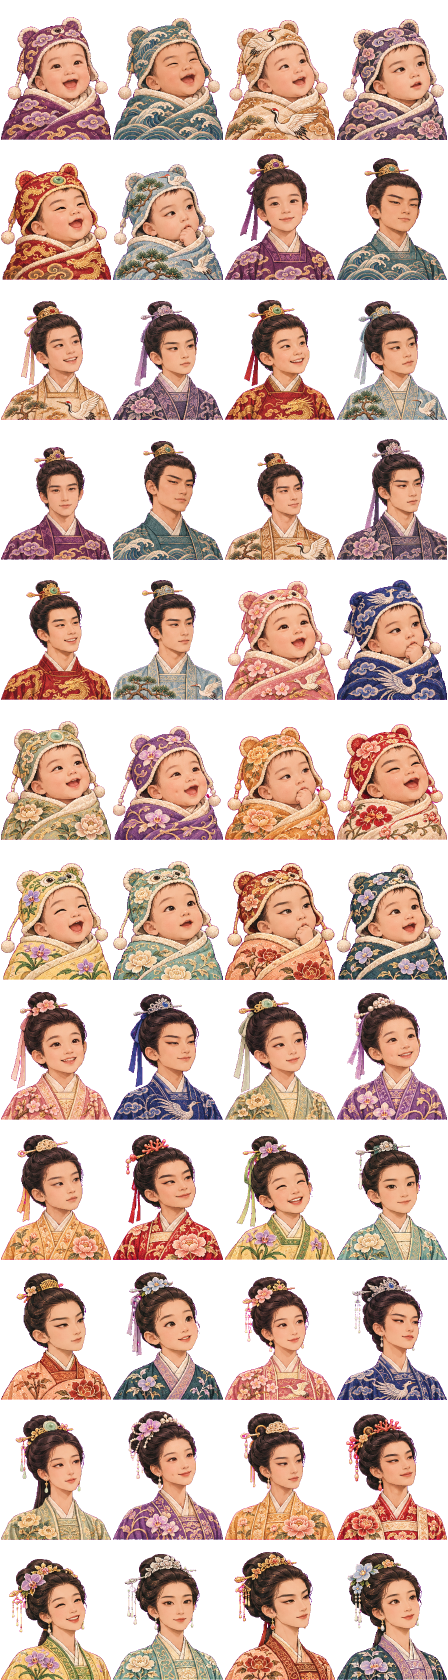
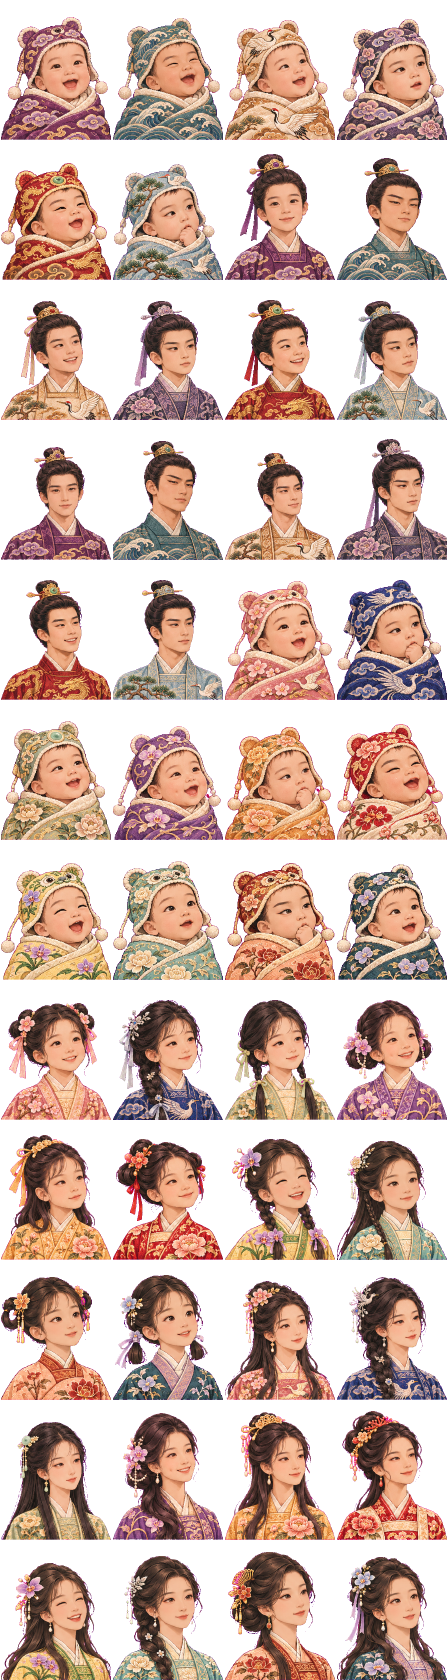
Publish the redrawn princess portrait atlas

Changed region(s): [[0.0, 0.5881, 1.0, 1.0]]

diff --git a/README.md b/README.md
@@ -24,7 +24,7 @@
 - **清亮配乐**：朝堂、后宫、花园、夜间和市井各有四句五声旋律。古筝奏出主题，箫在句尾回应，夜间留出更多停顿。配乐无鼓点，切换场景时奏完当前乐句再换曲。登基、上朝仍有轻钟提示。
 - **人物主动行动**：现有 24 种行动，其中 11 种附史料出处。性格、小性子、宫中关系、真实记忆、季节和皇嗣教养方针决定谁会主动行动。每月最多一位妃嫔和一位皇嗣发起新行动，宫城会显示入口。回应和后续随存档保存。
 - **家族关系树**：皇帝、妃嫔、皇嗣和妃嫔父兄都有带头像的人物卡。点皇帝、妃嫔或皇嗣可进入对应页面。皇嗣列在生母下方，有养母时另标抚养关系，家族列表仍可切换。
-- **皇嗣立绘**：皇子、公主各有十套独立形象，覆盖襁褓、孩童和长成后三个年龄阶段，共 60 张立绘。每种身份按排行分配，前十位各有不同的眉眼、发饰与衣纹。长大、册立太子和读档时沿用同一套形象。
+- **皇嗣立绘**：皇子、公主各有十套独立形象，覆盖襁褓、孩童和长成后三个年龄阶段，共 60 张立绘。公主有披发、半披发、侧辫、双丫髻与偏髻等造型。每种身份按排行分配，前十位各有不同的眉眼、发饰与衣纹。长大、册立太子和读档时沿用同一套形象。
 - **减少重复**：同名月末随机事件至少间隔四个月，主线与必发事件照常结算。小性子和心境事件只有进入队列才开始冷却；同一人和同一类主动行动也有独立冷却。
 - **宫廷游戏画面**：标题叠在宫殿场景上。开局后，宫城占据主画面，皇帝立绘、年号、国库与精力显示在朱漆色御案。底部指令使用宫门、奏折、玉牌等像素图标。敬事房保留竖排绿头牌。人物详情与场所面板叠在宫殿场景上，剧情从画面下方打开对话框。
 - **宫女事件降频**：御花园偶遇、长街、奉茶和贴身宫女随机事件共用四个月冷却。月末合并为一次抽签，冷却结束时有 12% 概率进入候选。御花园的宫女偶遇概率降至 10%，冷却中会改为正常游园。已触发的承恩、怀孕和生育剧情继续推进。
@@ -36,6 +36,8 @@
 以下是实机截图，使用演示存档。
 
 <img src="docs/screenshots/41-descendants.jpg" alt="新版皇嗣列表中的皇子、公主立绘" width="640">
+
+<img src="docs/screenshots/42-princess-hair.jpg" alt="长公主明昭的半披发立绘" width="640">
 
 <img src="docs/screenshots/39-family-portraits.jpg" alt="有头像的家族关系树，显示妃嫔父兄、生母和皇嗣" width="640">
 
